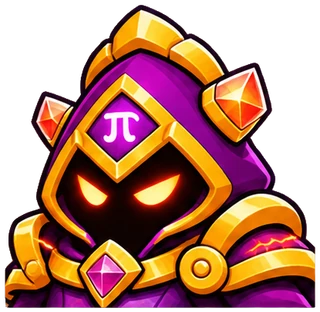
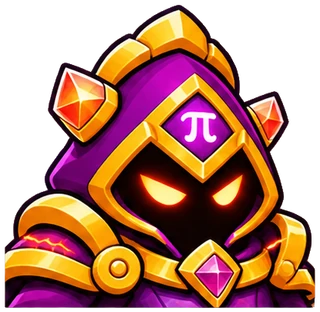
fix(boss): têtes du sorcier π regénérées dans le sens des poses

diff --git a/apps/web/scripts/assets/sprites.test.ts b/apps/web/scripts/assets/sprites.test.ts
@@ -1,0 +1,29 @@
+// @vitest-environment node
+import { describe, expect, it } from 'vitest';
+import { JOBS, type Job } from './sprites.ts';
+
+const targetsOf = (job: Job): readonly string[] => (job.kind === 'anim' ? [job.target] : job.targets);
+
+describe('orientation du Sorcier π (ticket 62)', () => {
+  const jobs = JOBS.filter((j) => targetsOf(j).some((t) => t.startsWith('bosses/sorcier-pi/')));
+
+  it('couvre animation, poses, têtes et portrait', () => {
+    const all = jobs.flatMap(targetsOf);
+    for (const part of [
+      'anim-idle',
+      'pose-idle',
+      'pose-hurt',
+      'pose-defeat',
+      'head-menace',
+      'head-rage-cri',
+      'portrait',
+    ]) {
+      expect(all).toContain(`bosses/sorcier-pi/${part}`);
+    }
+  });
+
+  it("aucune planche du Sorcier π n'est retournée : toutes sont dessinées tournées vers le héros", () => {
+    expect(jobs.length).toBeGreaterThanOrEqual(4);
+    for (const job of jobs) expect(job.mirror ?? false, job.board).toBe(false);
+  });
+});

diff --git a/apps/web/scripts/assets/sprites.ts b/apps/web/scripts/assets/sprites.ts
@@ -34,7 +34,7 @@ export interface StillJob {
   readonly size: number;
   /** Cases dont on ne garde que la plus grande forme (effets séparés retirés). */
   readonly silhouetteOnly?: readonly number[];
-  /** Retourner en miroir (le boss, dessiné tourné vers la droite, doit regarder le héros à sa gauche). */
+  /** Retourner en miroir (à réserver aux planches dessinées tournées vers la droite ; le boss est dessiné vers la gauche). */
   readonly mirror?: boolean;
   /**
    * Toutes les images dans le même cadre (le plus grand), pieds sur la même ligne et centrées :
